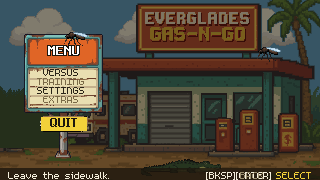
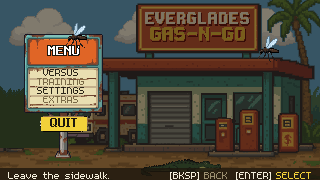
fix(ui): prompt pairs no longer overlap; add the missing typography checks
- UiPromptLine places the back pair left of the confirm KEY (it was keyed
  off the confirm label, so [BKSP] BACK sat on top of [ENTER]); re-lays out
  when the last device changes; the left description is clipped to the
  room left of the prompts
- ui_typography_test gains the checks the review report described but the
  branch lacked: every glyph exists in its font, cardboard labels sit inside
  their panel and use the dark inks (29 labels checked), and prompt-line
  labels never overlap (7 -> 10 checks; doc counts corrected from 16)
- Screenshots re-captured

Claude-Session: https://claude.ai/code/session_01MQNP9q7juxGwGURViUuvSn

Changed region(s): [[0.5312, 0.9444, 0.8125, 1.0], [0.8125, 0.1944, 0.875, 0.3333], [0.1875, 0.1389, 0.2812, 0.25]]

diff --git a/docs/PM_BRIEF.md b/docs/PM_BRIEF.md
@@ -113,7 +113,7 @@ Counts are PASS+FAIL lines observed in real headless runs, not doc claims.
 | `ui_flow_test.gd` | Phase 1 routing: router semantics, every forward/back path, confirm-leak guard, pause overlays, greyed items, QuitConfirm default, press-required warning (30-frame guard), chat-free menu, wrap order, title pulse | **52**, 0 fail | yes — 2026-11-21 polish pass (was 48; warning behavior pins updated with owner approval) |
 | `settings_test.gd` | Settings persistence: defaults, fill-in, round trip, opening never saves, reset applies+saves, 0 dB defaults | **16**, 0 fail | yes — added 2026-11-21 (scratch config; player file untouched) |
 | `ui_assets_test.gd` | Runtime UI art: prepare_ui size table re-run in verify mode + byte identity vs approved sources | **4**, 0 fail | yes — added 2026-11-21 |
-| `ui_typography_test.gd` | Phase 1 typography + contrast rules: every label in the six surfaces uses a pixel font at native size with every glyph present, no outline/shadow, integer positions, no scaling; cardboard labels fit their container and use the dark inks; over-art lettering is outlined; pause panel sized to its longest item | **16**, 0 fail | yes — added 2026-11-21 (polish pass), extended 2026-11-22 (review fixes) |
+| `ui_typography_test.gd` | Phase 1 typography + contrast rules: every label in the six surfaces uses a pixel font at native size with every glyph present, no outline/shadow, integer positions, no scaling; cardboard labels fit their container and use the dark inks; prompt-line pairs never overlap | **10**, 0 fail | yes — added 2026-11-21 (polish pass), extended 2026-11-22 (review fixes) |
 | `air_probe.gd` | Balance metrics only, asserts nothing, always exits 0 | 0 (metrics) | yes (separate job) |
 | `juggle_probe.gd` | Juggle balance metrics (every budget-legal launcher route, jab-only reference, candidate ladders), asserts nothing | 0 (metrics) | no |
 | `juggle_route_probe.gd` | Real-hitbox juggle route timing search (human timing; ~7 min) | 0 (metrics) | no |

diff --git a/docs/KNOWN_ISSUES.md b/docs/KNOWN_ISSUES.md
@@ -561,7 +561,7 @@ landed 2026-11-21 — data recorded, no balance fixes applied yet):**
   `art/tools/prepare_ui.gd` and re-runs its size table in verify-only mode
   (manifest and test cannot drift), plus a byte-identity check of every
   `game/art/ui/` copy against its approved source.
-- `game/tests/ui_typography_test.gd` — **16 checks** (2026-11-21 polish, extended by the PR #86 review fixes):
+- `game/tests/ui_typography_test.gd` — **10 checks** (2026-11-21 polish, extended by the PR #86 review fixes):
   every label in the six Phase 1 surfaces (five screens + the pause menu)
   uses Sidewalk Marker at 10 or m5x7 at 16 with every glyph present, carries
   no theme outline or shadow, sits at an integer position, and is never

diff --git a/docs/UI_SCREENS.md b/docs/UI_SCREENS.md
@@ -246,7 +246,7 @@ on an approved file missing from the table, and exits non-zero.
 - `game/tests/settings_test.gd` — 16 checks: defaults, fill-in, round
   trip, opening never saves, reset applies + saves, 0 dB defaults.
 - `game/tests/ui_assets_test.gd` — 4 checks: sizes + byte identity.
-- `game/tests/ui_typography_test.gd` — 16 checks: every label in the six
+- `game/tests/ui_typography_test.gd` — 10 checks: every label in the six
   Phase 1 surfaces (five screens + the pause menu) uses a pixel font at
   its native size with every glyph present, no theme outline/shadow,
   integer positions, no scaling; labels on cardboard (ui_panel /

diff --git a/README.md b/README.md
@@ -117,7 +117,7 @@ Current suites: **combat 408 checks**, round flow 34, character select 54,
 locomotion speed 7, stage select 94, stage floor 9, CPU opponent 27,
 combo system 68, combo fuzz 118, stun & breaker 55, The Clip 23,
 serialization 24, B6
-landing-whiff 5, UI flow 52, settings 16, UI assets 4, UI typography 16
+landing-whiff 5, UI flow 52, settings 16, UI assets 4, UI typography 10
 — all green in CI (`tests.yml`, every step under a `timeout-minutes`).
 `tests/air_probe.gd` and `tests/juggle_probe.gd` print balance metrics and
 assert nothing; `tests/juggle_route_probe.gd` brute-forces real-hitbox juggle

diff --git a/docs/PHASE_STATUS.md b/docs/PHASE_STATUS.md
@@ -134,7 +134,7 @@ phase exit criteria:
   ScreenRouter with a persistent Settings autoload and audio buses;
   `docs/UI_SCREENS.md` documents what shipped (typography rules included),
   and the seventeen-suite CI adds ui_flow (52), settings (16),
-  ui_assets (4), and ui_typography (16). Procedural
+  ui_assets (4), and ui_typography (10). Procedural
   newsprint/halftone and bundled OFL comic fonts are used throughout. Mode
   select (added 2026-11-17) offers 1 PLAYER or 2 PLAYERS: solo sends P1 to a
   difficulty pick (added 2026-11-19) and then lets P1 pick both fighters, with
